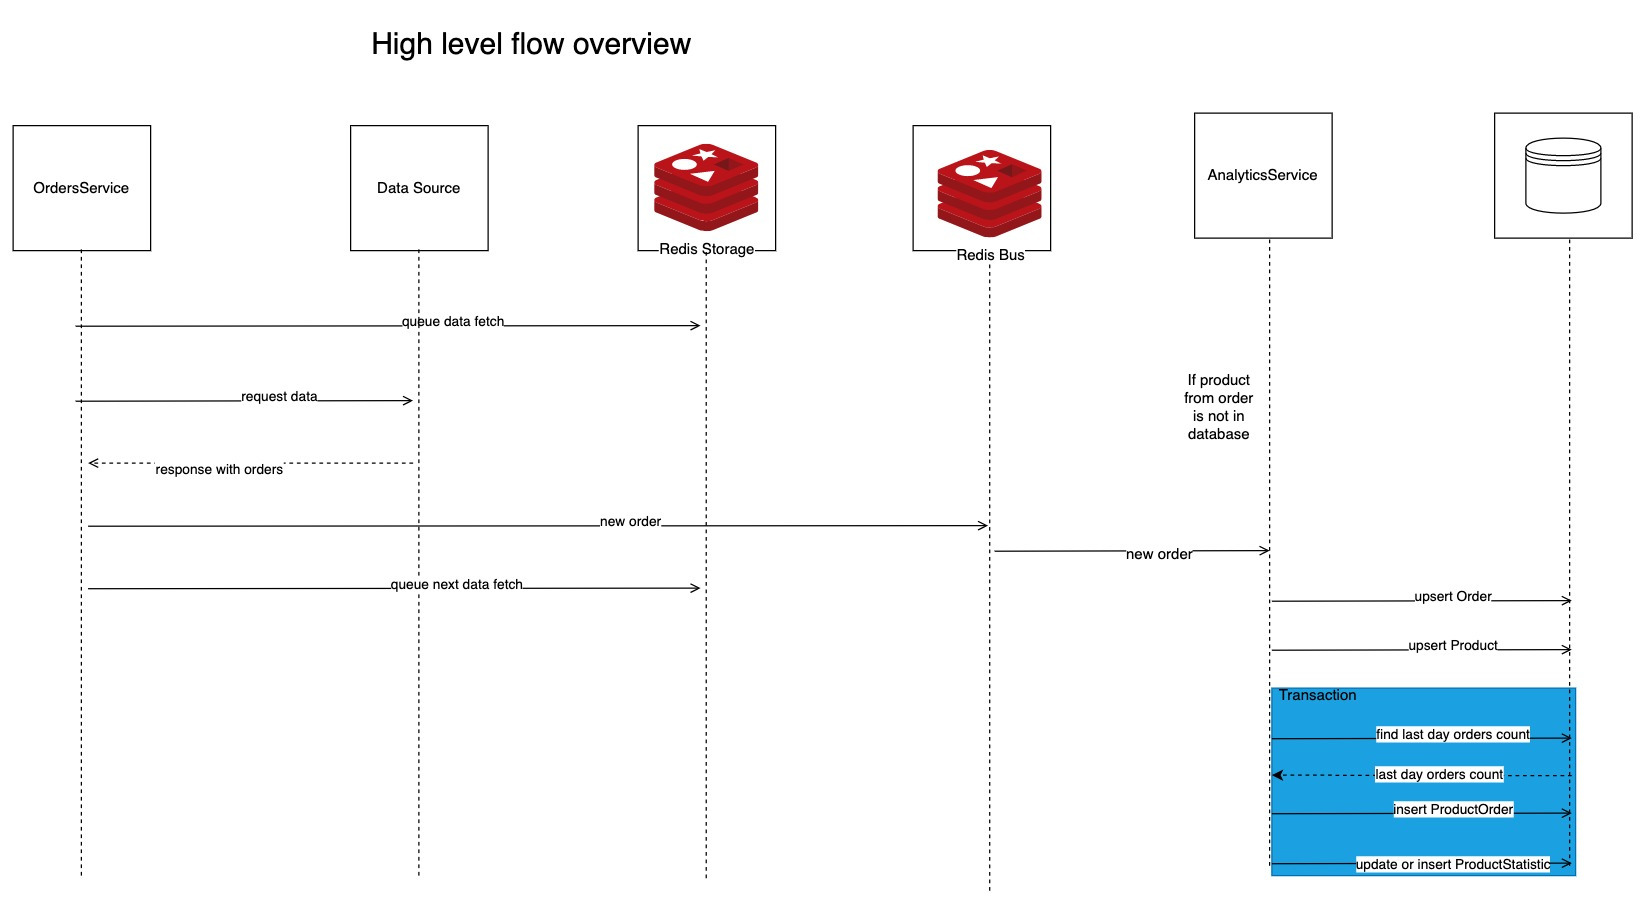
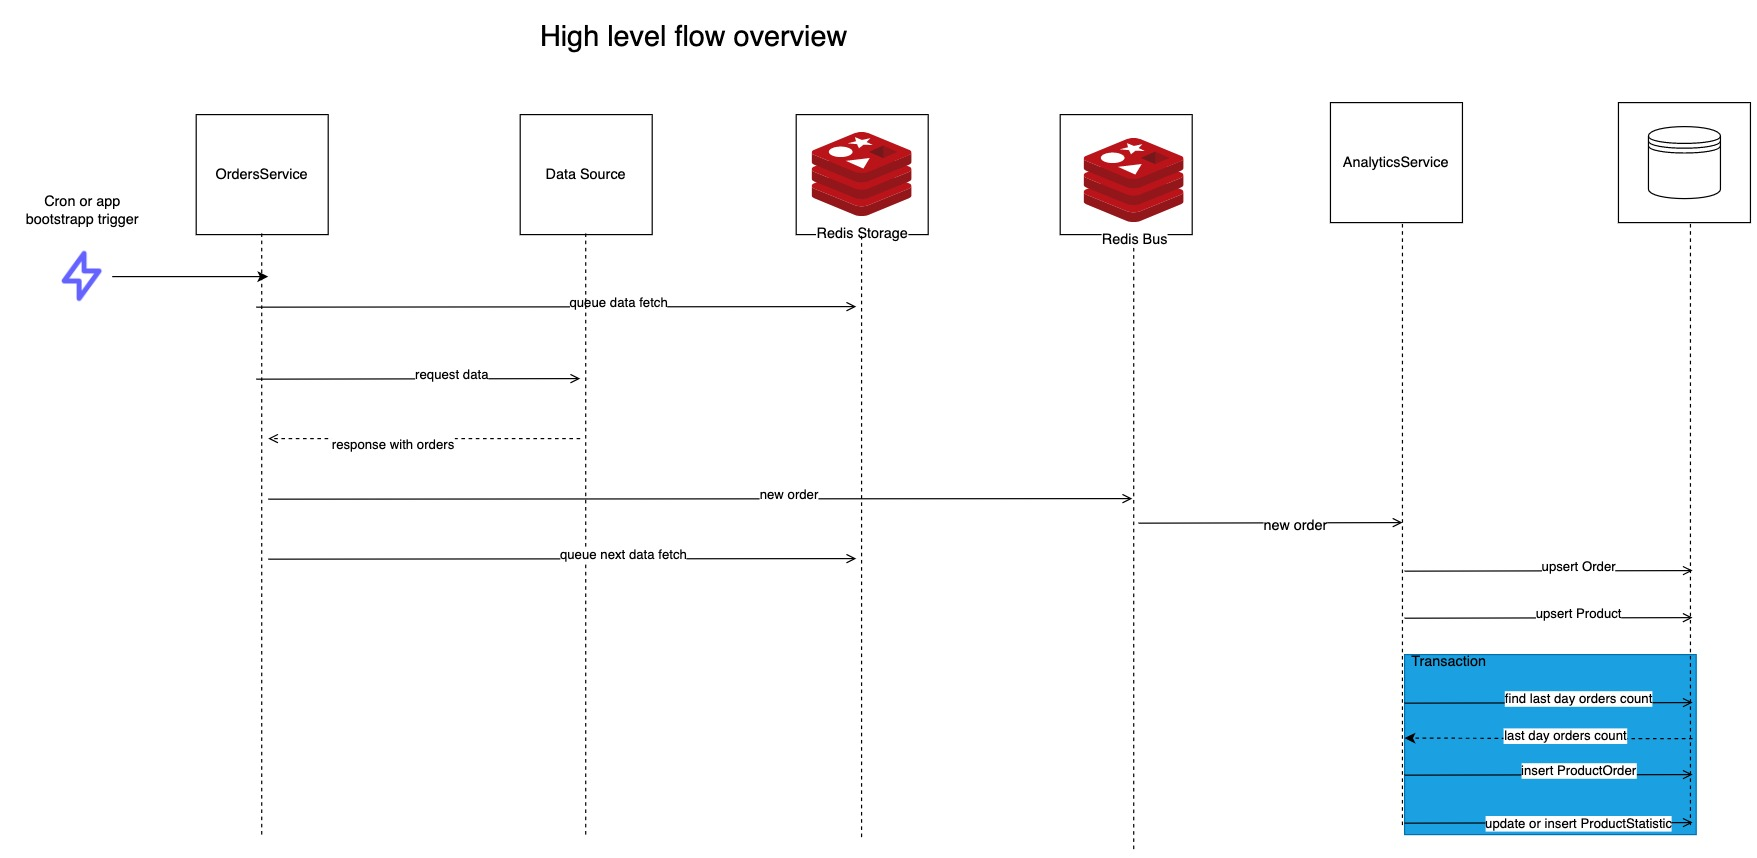
readme improvements

diff --git a/readme.md b/readme.md
@@ -7,15 +7,15 @@ I hope it will show my understanding for given problem.
 My main goal in this task was to optimize query response time to minimum.
 The goal has been achieved by creating ProductStatistic table which stores current statistics about a given product.
 
-![flip_arch1](docs/flip_arch1.jpg)
+![flip_arch](docs/flip_arch.jpg)
 
-Orders Service fetches data from given external endpoint. Data is being fetched page by page. App creates a recurrent (recurrent because one job crates another) job in
-Redis Storage service. In general this orders service simulates service where real queries like `POST /order` could be run.
+**Orders Service** fetches data from given external endpoint. Data is being fetched page by page. App creates a recurrent (recurrent because one job crates another) job in
+Redis Storage service. In general this orders service simulates service where real endpoints like `POST /order` could live.
 Nevertheless currently this service fetches data from external source. As i described before it is asynchronous process. Data fetch
 is triggered every app start and by cron EVERY MINUTE, but if in queue already is a job which fetches orders, new job won't be added.
 
 
-Analytics Service is a place where data is being processed. Here appropriate records in database are being created and updated.
+**Analytics Service** is a place where data is being processed. Here appropriate records in database are being created and updated.
 This service also merges duplicated products in order's item array.
 Analytics service exposes also three endpoints which was required.
 - `GET /order-analytics/top-profitable-products`
